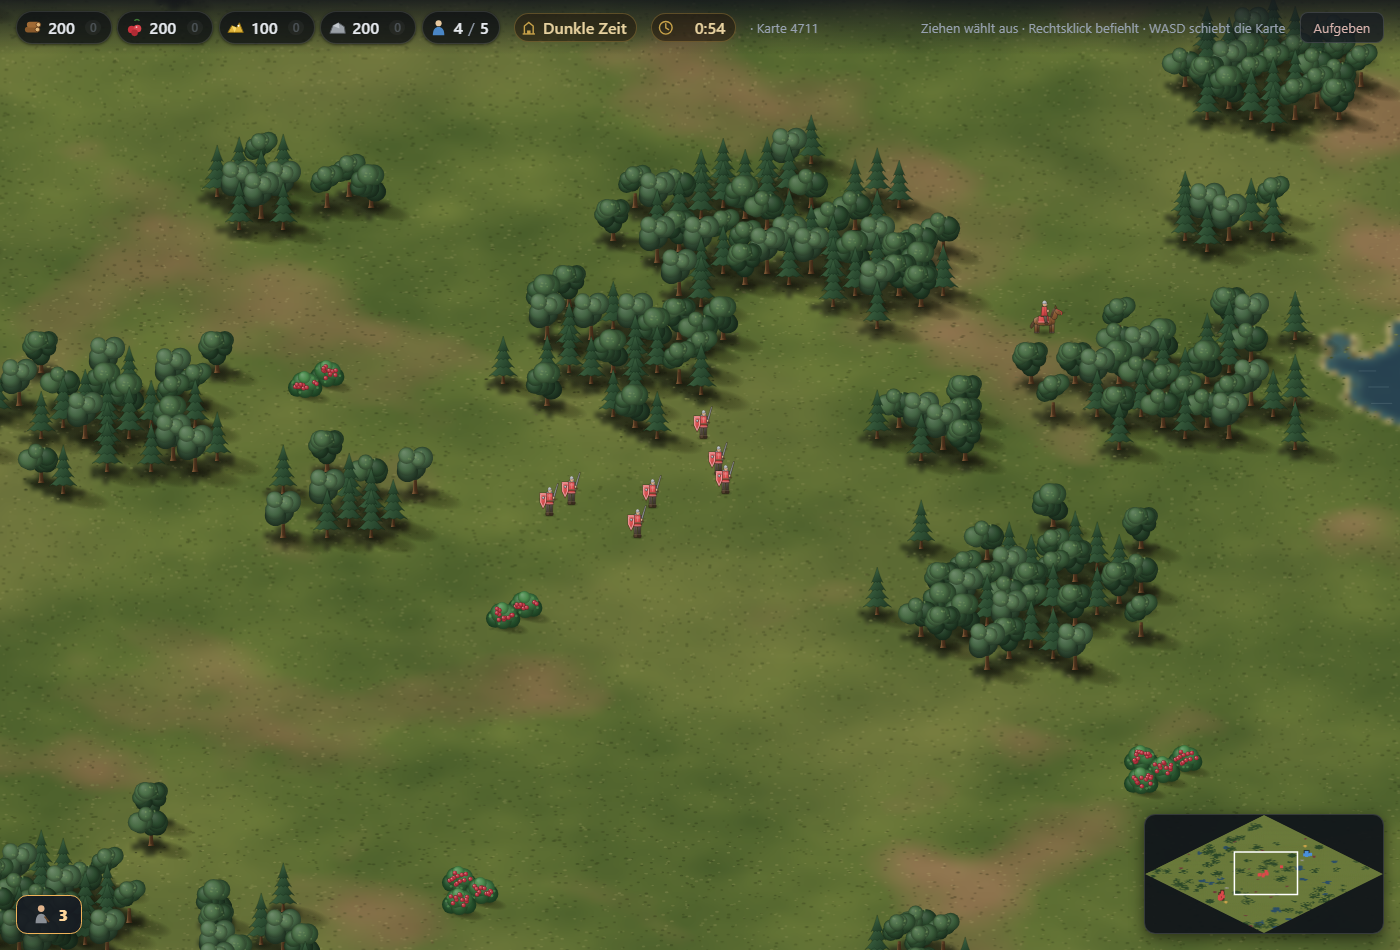
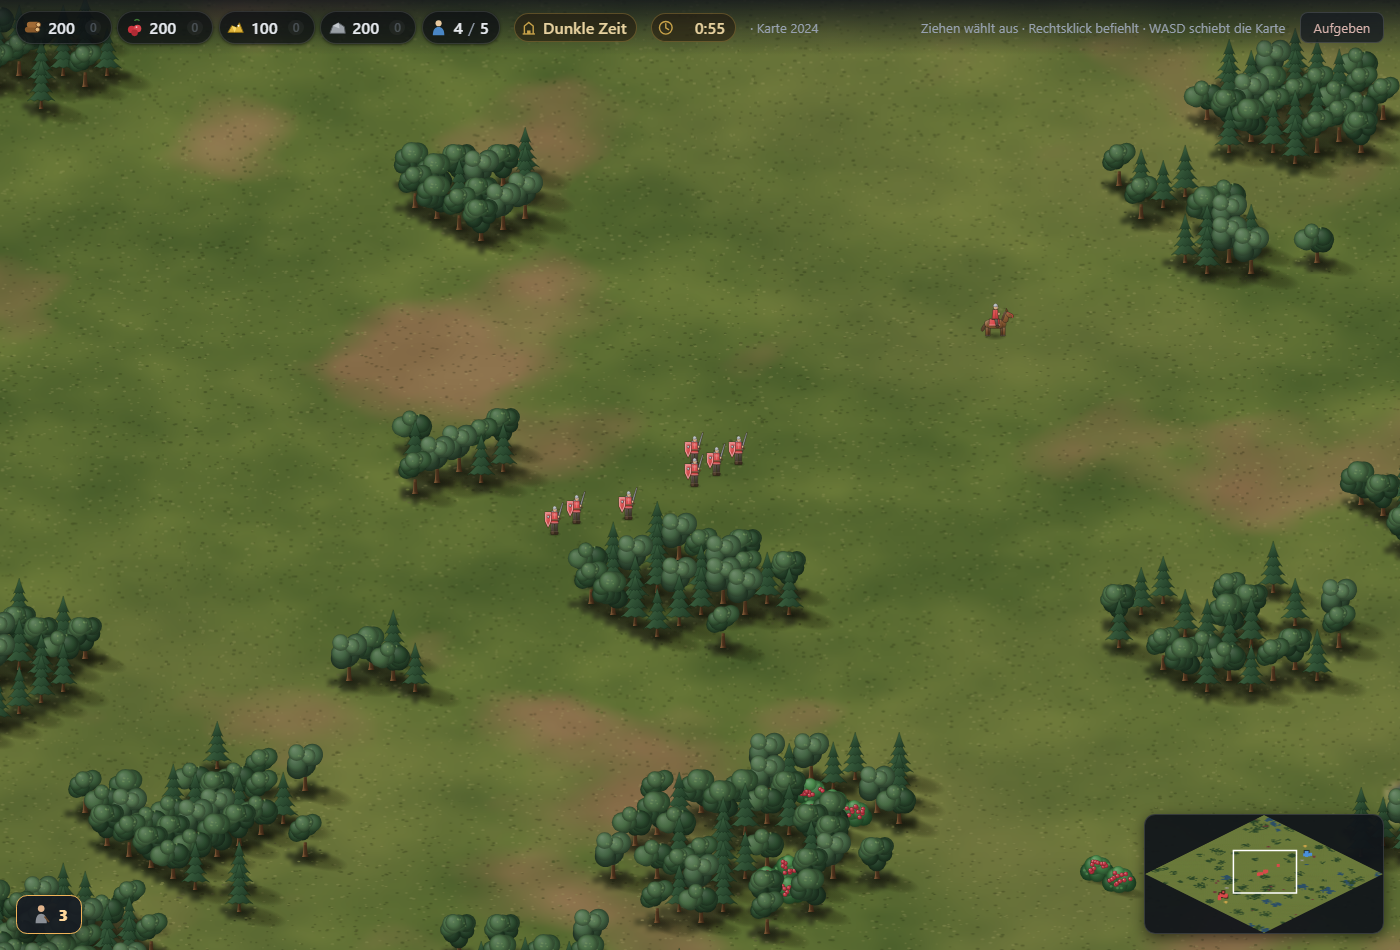
Browserlauf wieder gruen: das Bild zu ki AC-11 auf Startwert 2024
Auf 4711 liefen zwei Milizen der KI auf dem Marsch 0,28 Felder
hintereinander (ihre Wege laufen zusammen, danach trennt sie nur der
Unterschied der Weglaengen), und der Test fiel in jedem vollen Lauf; auf
7 und 42 ebenso, auf 2024 hielt er achtmal von acht. Ein bewusstes
Ausweichen vor einheiten AC-32, im Test vermerkt - behoben ist es erst
mit Formationen (Frage an den Benutzer).

diff --git a/docs/strategie/steuerstand.md b/docs/strategie/steuerstand.md
@@ -13,7 +13,7 @@ hier nichts eintraegt, verliert den Faden beim naechsten Autocompact.
 
 ## Zuletzt fortgeschrieben
 
-2026-11-08, nach Runde 119 (**kampf AC-13, fahrplan AC-13, C6e fertig**: der
+2026-11-08, nach Runde 120 (**kampf AC-13, fahrplan AC-13, C6e fertig**: der
 Server schickt jedem nur, was er sieht - `welt.zustandJeSpieler`,
 `welt.aufbauFuer`, im Raum `sendenJe`. Fremde Gebaeude und Felder, die sich im
 Nebel aendern, kommen beim naechsten Hinsehen; wer ausscheidet, bekommt einmal
@@ -41,11 +41,10 @@ AC-41 fertig** (Ausholen im Kampf, Ansage oben). Runde 119: **bedienung AC-40
 fertig** (Pfeile), **D1 erreicht**. **Der Browserlauf ist nicht ganz
 gruen**: ki AC-11 faellt jetzt in jedem vollen Lauf (zwei Milizen der KI
 laufen aufeinander, einheiten AC-32 - wartet auf die Frage zu Formationen).
-**Als Naechstes, vor D2:** ohne Antwort das Bild zu ki AC-11 am Marschziel
-aufnehmen statt unterwegs (dort treten Stehende auseinander, AC-29) und die
-Unterschrift anpassen - ein bewusstes zweites Ausweichen, mit Vermerk, damit
-der Browserlauf gruen wird. Dann D2: Aufstieg in die Ritterzeit, Kloster,
-Universitaet, Werkstatt (bauen AC-27, AC-28). ki AC-13 und einheiten
+Runde 120: **ki AC-11 im Browser auf
+Startwert 2024** (bewusstes Ausweichen vor AC-32, im Test vermerkt) - der
+Browserlauf ist wieder gruen. **Als Naechstes D2**: Aufstieg in die
+Ritterzeit, Kloster, Universitaet, Werkstatt (bauen AC-27, AC-28). ki AC-13 und einheiten
 AC-32 warten auf Antworten. **Naechste Rueckschau: Runde 121.**)
 
 ## Wo ich stehe

diff --git a/docs/strategie/erkenntnisse.md b/docs/strategie/erkenntnisse.md
@@ -1194,6 +1194,18 @@ erstes Heer 17,0 min (Runde 113).
 Neueste oben. Eine Zeile je Runde: Nummer, Datum, Kriterien, Ergebnis,
 wichtigste Erkenntnis.
 
+- **120** · 2026-11-08 · **der Browserlauf wieder grün** — ki AC-11 fiel
+  in jedem vollen Lauf. Ursache genauer als bisher: zwei Milizen starten auf
+  Nachbarfeldern, ihre Wege laufen zusammen, und danach trennt sie nur der
+  Unterschied der Weglängen (ein Schrägschritt gegen einen geraden, 0,28 bis
+  0,36 Felder) — gleiches Tempo hält ihn den ganzen Marsch. Auf den
+  Startwerten 7 und 42 ebenso; auf 2024 hielt der Fall achtmal von acht.
+  Der Test eröffnet jetzt mit 2024 — ein bewusstes zweites Ausweichen vor
+  einheiten AC-32, im Test vermerkt; 4711 kommt zurück, wenn eine Gruppe im
+  Gehen ihre Aufstellung behält (Frage an den Benutzer). Die Versuche liefen
+  über `npm run gegenprobe --datei`; eine Variante lief nach einem
+  Zeitlimit im Hintergrund weiter und schrieb danach die Datei zurück, wie
+  vorgesehen.
 - **119** · 2026-11-08 · **bedienung AC-40** — Pfeile fliegen sichtbar (D1
   ist fertig): jeder Schuss eines Fernkämpfers geht mit Start und Ziel in
   den nächsten Zustand, im Nebel nur, wer ein Ende sieht; der Browser lässt
